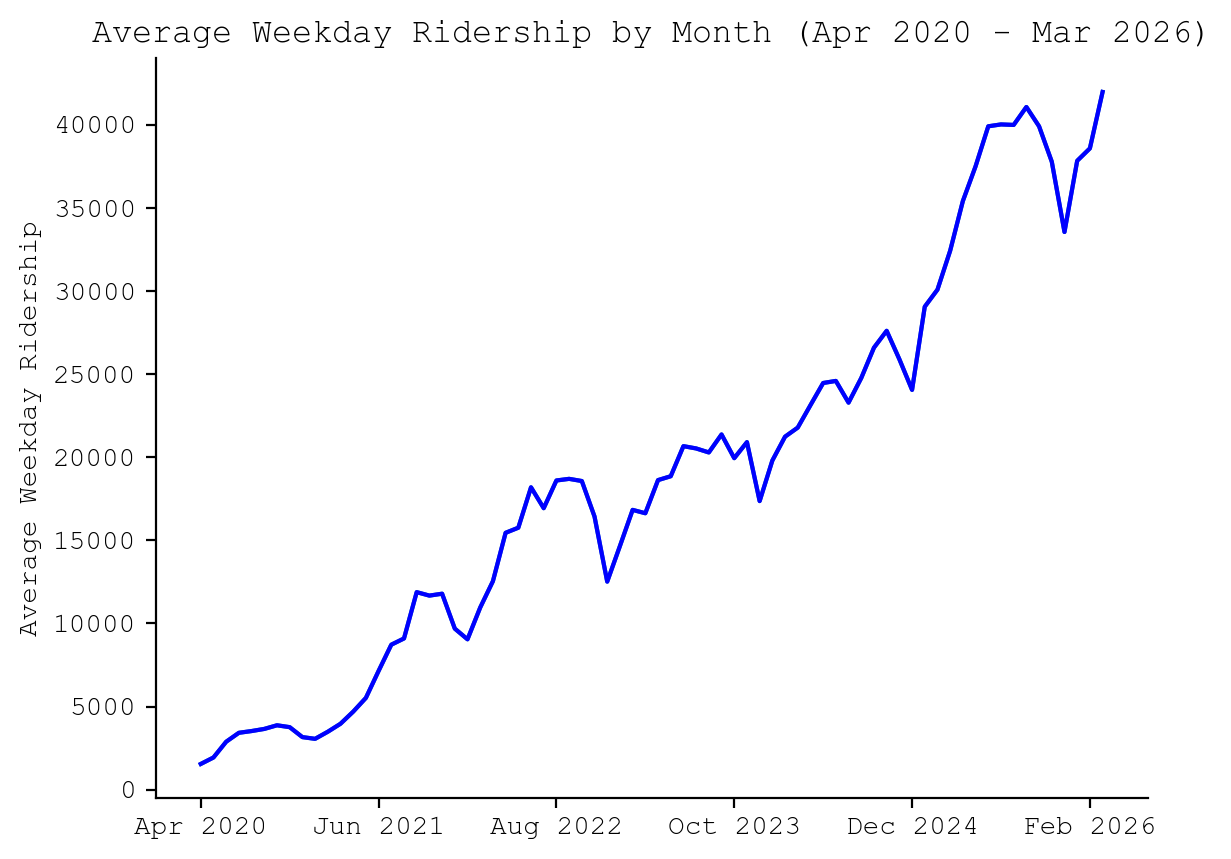
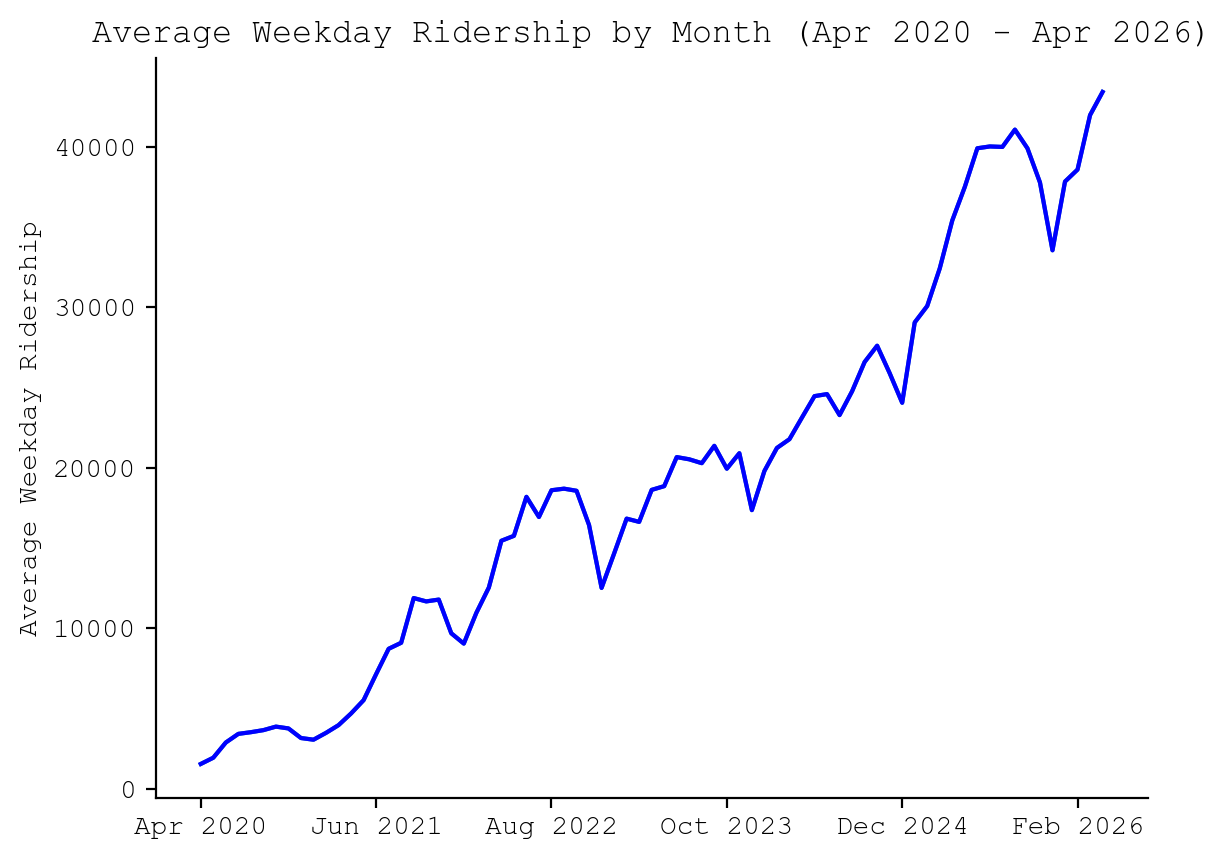
add apr 2026

diff --git a/site/index.html b/site/index.html
@@ -9,15 +9,15 @@
 </head>
 <body>
     <h1>Caltrain Ridership</h1>
-    <p><em>Last updated: 2026-04-12</em></p>    
+    <p><em>Last updated: 2026-05-13</em></p>    
     <div class="news">
         <p>
             It looks like you're on desktop, so you can use Caltrain's new ridership web page which has more detailed ridership data from 2023 onwards: <a href="https://www.caltrain.com/about-caltrain/statistics-reports/ridership/fare-media-based">https://www.caltrain.com/about-caltrain/statistics-reports/ridership/fare-media-based</a>.
         </p>
     </div>
     <p>
-        This site contains graphs and a table of Caltrain's average weekday ridership from Jul 2017 to Mar 2026 sourced from <a href="https://www.caltrain.com/about-caltrain/statistics-reports/ridership/fare-media-based">Fare Media Sales-Based Ridership Estimates</a> and JPB Citizens Advisory Committee documents.
-        Average weekday ridership is reported with a 1-month lag, so the most recent data is from Mar 2026.
+        This site contains graphs and a table of Caltrain's average weekday ridership from Jul 2017 to Apr 2026 sourced from <a href="https://www.caltrain.com/about-caltrain/statistics-reports/ridership/fare-media-based">Fare Media Sales-Based Ridership Estimates</a> and JPB Citizens Advisory Committee documents.
+        Average weekday ridership is reported with a 1-month lag, so the most recent data is from Apr 2026.
     </p>
     <p>
         You can find a <a href="https://github.com/iechevarria/caltrain-ridership/blob/main/ridership.csv">CSV</a> of Caltrain's average weekday ridership and the script to generate this site on <a href="https://github.com/iechevarria/caltrain-ridership">GitHub</a>.
@@ -31,6 +31,10 @@
     <tr>
         <td>Month</td>
         <td>Average weekday ridership</td>
+    </tr>
+    <tr>
+        <td>Apr 2026</td>
+        <td>43410</td>
     </tr>
     <tr>
         <td>Mar 2026</td>
